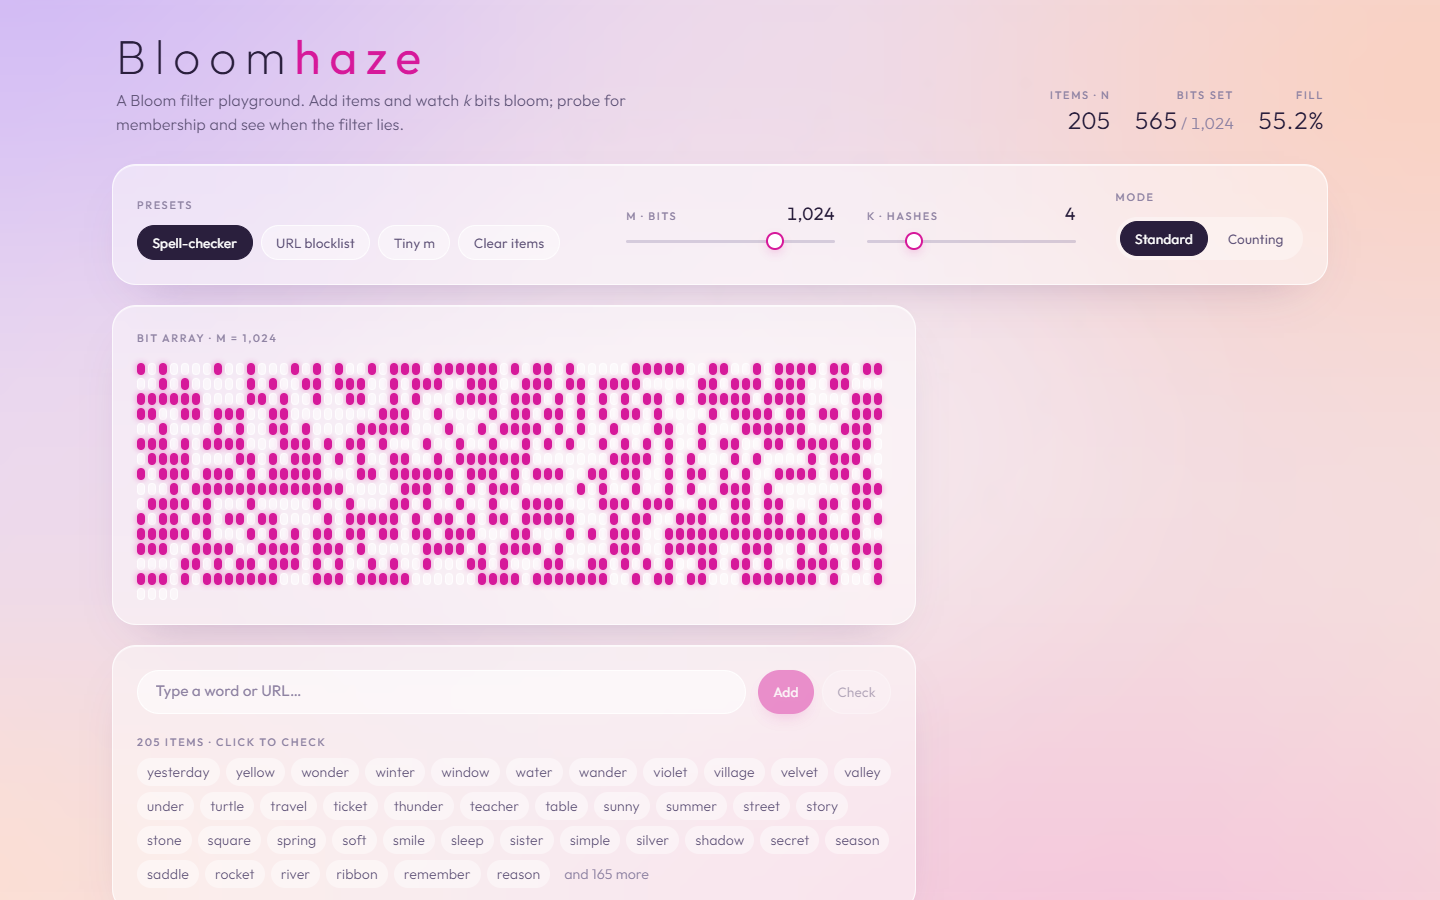
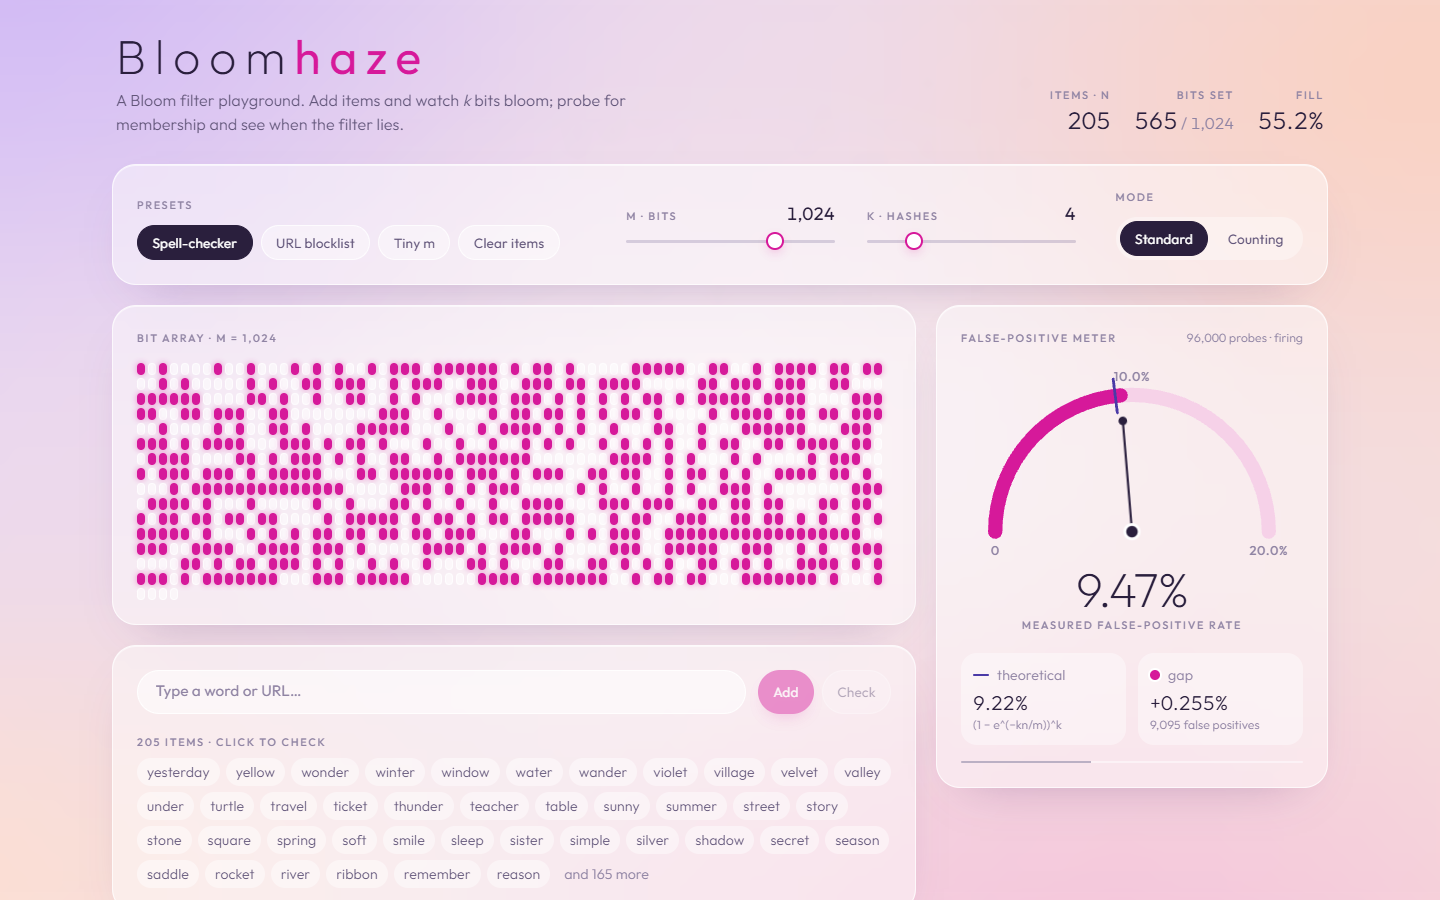
feat: live false-positive meter with rAF probe loop and semicircular gauge

diff --git a/src/components/Gauge.tsx b/src/components/Gauge.tsx
@@ -1,0 +1,117 @@
+import type { Filter } from '../lib/bloom'
+import { theoreticalFpRate } from '../lib/bloom'
+import { MAX_PROBES, useFpMeter } from '../hooks/useFpMeter'
+import { fmtPct, fmtTick, niceCeil } from '../lib/format'
+
+const CX = 120
+const CY = 124
+const R = 96
+
+function polar(frac: number, r: number): [number, number] {
+  const theta = Math.PI * (1 - frac)
+  return [CX + r * Math.cos(theta), CY - r * Math.sin(theta)]
+}
+
+function arc(from: number, to: number, r: number): string {
+  const [x0, y0] = polar(from, r)
+  const [x1, y1] = polar(to, r)
+  return `M ${x0} ${y0} A ${r} ${r} 0 0 1 ${x1} ${y1}`
+}
+
+interface Props {
+  filter: Filter
+  version: number
+  members: ReadonlySet<string>
+}
+
+/** Semicircular gauge: needle = measured rate, violet tick = theoretical. */
+export function Gauge({ filter, version, members }: Props) {
+  const meter = useFpMeter(filter, version, members)
+  const { m, k, n } = filter
+  const theory = theoreticalFpRate(m, n, k)
+  const settled = meter.probes >= 500
+  const ceil = Math.min(1, niceCeil(Math.max(theory * 1.6, settled ? meter.rate * 1.15 : 0, 0.001)))
+  const measuredFrac = Math.min(1, meter.rate / ceil)
+  const theoryFrac = Math.min(1, theory / ceil)
+  const [tx0, ty0] = polar(theoryFrac, R - 12)
+  const [tx1, ty1] = polar(theoryFrac, R + 12)
+  const gap = meter.rate - theory
+
+  return (
+    <section className="card p-5 sm:p-6" aria-label="False-positive meter">
+      <div className="flex items-baseline justify-between">
+        <h2 className="eyebrow">False-positive meter</h2>
+        <span className="text-xs text-ink-3 tabular-nums" aria-live="off">
+          {meter.probes.toLocaleString()} probes{meter.done ? ' · settled' : n > 0 ? ' · firing' : ''}
+        </span>
+      </div>
+
+      <svg viewBox="0 0 240 150" className="mt-2 w-full" role="img" aria-label={`Measured ${fmtPct(meter.rate)}, theoretical ${fmtPct(theory)}`}>
+        {/* track: a lighter step of the same magenta ramp */}
+        <path d={arc(0, 1, R)} fill="none" stroke="#f5c6e6" strokeWidth={10} strokeLinecap="round" opacity={0.7} />
+        {measuredFrac > 0 && (
+          <path
+            d={arc(0, measuredFrac, R)}
+            fill="none"
+            stroke="#d6199a"
+            strokeWidth={10}
+            strokeLinecap="round"
+            style={{ transition: 'd 500ms cubic-bezier(0.2, 0.8, 0.2, 1)' }}
+          />
+        )}
+        {/* theoretical tick */}
+        {n > 0 && (
+          <line x1={tx0} y1={ty0} x2={tx1} y2={ty1} stroke="#4a3aa7" strokeWidth={2} strokeLinecap="round">
+            <title>theoretical {fmtPct(theory)}</title>
+          </line>
+        )}
+        {/* scale labels */}
+        <g fill="#8f83a3" fontSize={9} fontWeight={500} letterSpacing={0.5}>
+          <text x={CX - R} y={CY + 16} textAnchor="middle">0</text>
+          <text x={CX} y={CY - R + 26} textAnchor="middle">{fmtTick(ceil / 2)}</text>
+          <text x={CX + R} y={CY + 16} textAnchor="middle">{fmtTick(ceil)}</text>
+        </g>
+        {/* needle */}
+        <g className="needle" style={{ transform: `rotate(${measuredFrac * 180}deg)` }}>
+          <line x1={CX} y1={CY} x2={CX - R + 18} y2={CY} stroke="#2a1f3d" strokeWidth={1.5} strokeLinecap="round" />
+          <circle cx={CX - R + 18} cy={CY} r={3} fill="#2a1f3d" />
+        </g>
+        <circle cx={CX} cy={CY} r={5} fill="#2a1f3d" stroke="#fff" strokeWidth={2} />
+      </svg>
+
+      <div className="-mt-1 text-center">
+        <p className="text-5xl font-extralight tracking-tight text-ink">{fmtPct(meter.rate)}</p>
+        <p className="eyebrow mt-1">measured false-positive rate</p>
+      </div>
+
+      <dl className="mt-5 grid grid-cols-2 gap-3 text-sm">
+        <div className="rounded-2xl bg-white/40 p-3">
+          <dt className="flex items-center gap-2 text-ink-3">
+            <span className="inline-block h-0.5 w-4 rounded bg-theory" aria-hidden="true" />
+            theoretical
+          </dt>
+          <dd className="mt-1 text-xl font-light tabular-nums text-ink">{fmtPct(theory)}</dd>
+          <dd className="text-xs text-ink-3">(1 − e^(−kn/m))^k</dd>
+        </div>
+        <div className="rounded-2xl bg-white/40 p-3">
+          <dt className="flex items-center gap-2 text-ink-3">
+            <span className="inline-block h-2.5 w-2.5 rounded-full bg-bloom ring-2 ring-white" aria-hidden="true" />
+            gap
+          </dt>
+          <dd className="mt-1 text-xl font-light tabular-nums text-ink">
+            {n === 0 ? '–' : `${gap >= 0 ? '+' : '−'}${fmtPct(Math.abs(gap))}`}
+          </dd>
+          <dd className="text-xs text-ink-3">{meter.positives.toLocaleString()} false positives</dd>
+        </div>
+      </dl>
+
+      {n === 0 ? (
+        <p className="mt-4 text-center text-sm text-ink-3">Add items to start measuring.</p>
+      ) : (
+        <div className="mt-4 h-0.5 overflow-hidden rounded bg-white/50" aria-hidden="true">
+          <div className="h-full bg-ink-3/60 transition-[width]" style={{ width: `${(meter.probes / MAX_PROBES) * 100}%` }} />
+        </div>
+      )}
+    </section>
+  )
+}

diff --git a/src/hooks/useFpMeter.ts b/src/hooks/useFpMeter.ts
@@ -1,0 +1,52 @@
+import { useEffect, useState } from 'react'
+import type { Filter } from '../lib/bloom'
+import { mulberry32, randomToken } from '../lib/random'
+
+export interface MeterState {
+  probes: number
+  positives: number
+  /** positives / probes, or 0 before the first batch. */
+  rate: number
+  done: boolean
+}
+
+const BATCH = 600
+export const MAX_PROBES = 250_000
+const SEED = 0x5eed
+
+const ZERO: MeterState = { probes: 0, positives: 0, rate: 0, done: false }
+
+/**
+ * Fires seeded random non-member strings at the filter in requestAnimationFrame
+ * batches and keeps a running false-positive ratio. Restarts whenever the
+ * filter changes (version bump) so the needle always describes the current bits.
+ */
+export function useFpMeter(filter: Filter, version: number, members: ReadonlySet<string>): MeterState {
+  const [state, setState] = useState<MeterState>(ZERO)
+
+  useEffect(() => {
+    setState(ZERO)
+    if (filter.n === 0) return // an empty filter cannot say yes; nothing to measure
+
+    const rand = mulberry32(SEED)
+    let probes = 0
+    let positives = 0
+    let raf = 0
+
+    const tick = () => {
+      for (let i = 0; i < BATCH && probes < MAX_PROBES; i++) {
+        const t = randomToken(rand)
+        if (members.has(t)) continue
+        probes++
+        if (filter.has(t)) positives++
+      }
+      const done = probes >= MAX_PROBES
+      setState({ probes, positives, rate: probes ? positives / probes : 0, done })
+      if (!done) raf = requestAnimationFrame(tick)
+    }
+    raf = requestAnimationFrame(tick)
+    return () => cancelAnimationFrame(raf)
+  }, [filter, version, members])
+
+  return state
+}

diff --git a/src/App.tsx b/src/App.tsx
@@ -1,6 +1,7 @@
 import { useMemo, useState } from 'react'
 import { BitGrid } from './components/BitGrid'
 import { Controls } from './components/Controls'
+import { Gauge } from './components/Gauge'
 import { ProbePanel } from './components/ProbePanel'
 import { useFilter } from './hooks/useFilter'
 import { fmtPct } from './lib/format'
@@ -94,7 +95,9 @@ export default function App() {
           />
         </div>
 
-        <div className="flex flex-col gap-5">{/* meter + chart */}</div>
+        <div className="flex flex-col gap-5">
+          <Gauge filter={f.filter} version={f.version} members={f.memberSet} />
+        </div>
       </div>
     </div>
   )

diff --git a/src/lib/format.ts b/src/lib/format.ts
@@ -8,6 +8,12 @@ export function fmtPct(x: number): string {
   return `${p.toFixed(3)}%`
 }
 
+/** Compact percent for ticks and scale ends: 20%, 2.5%, 0.1%. */
+export function fmtTick(x: number): string {
+  const p = x * 100
+  return `${parseFloat(p.toPrecision(3))}%`
+}
+
 export function hex32(n: number): string {
   return '0x' + n.toString(16).padStart(8, '0')
 }
